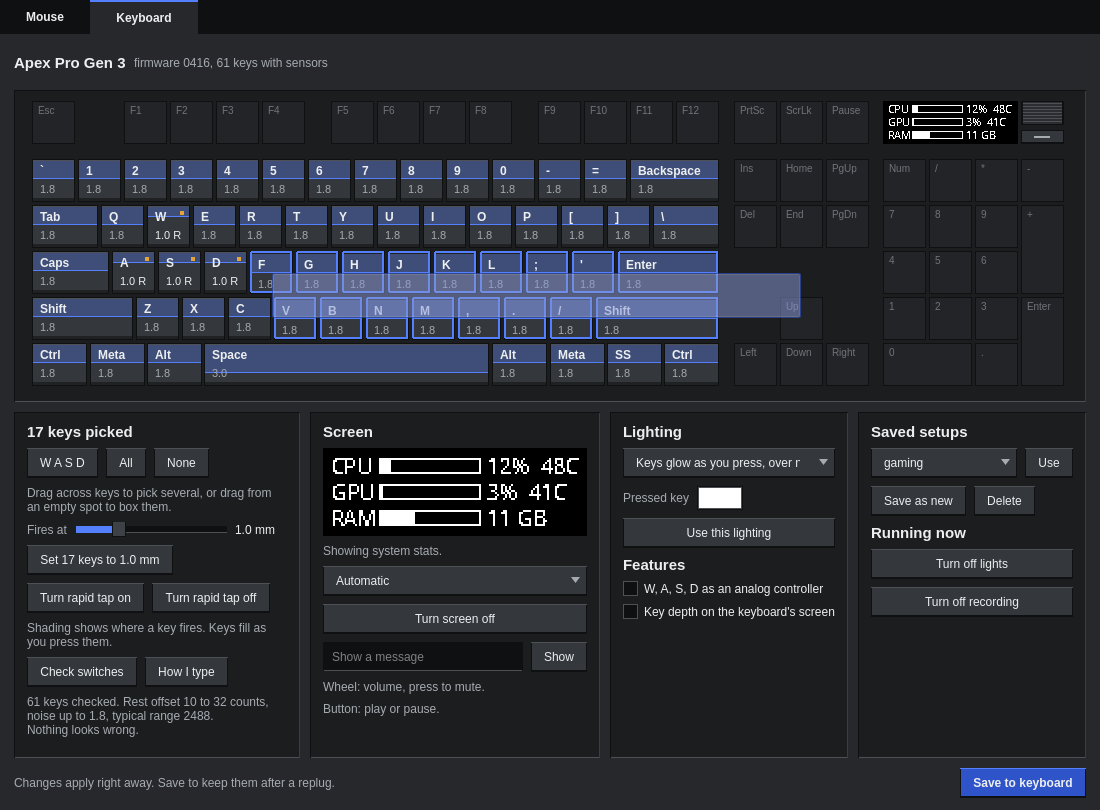
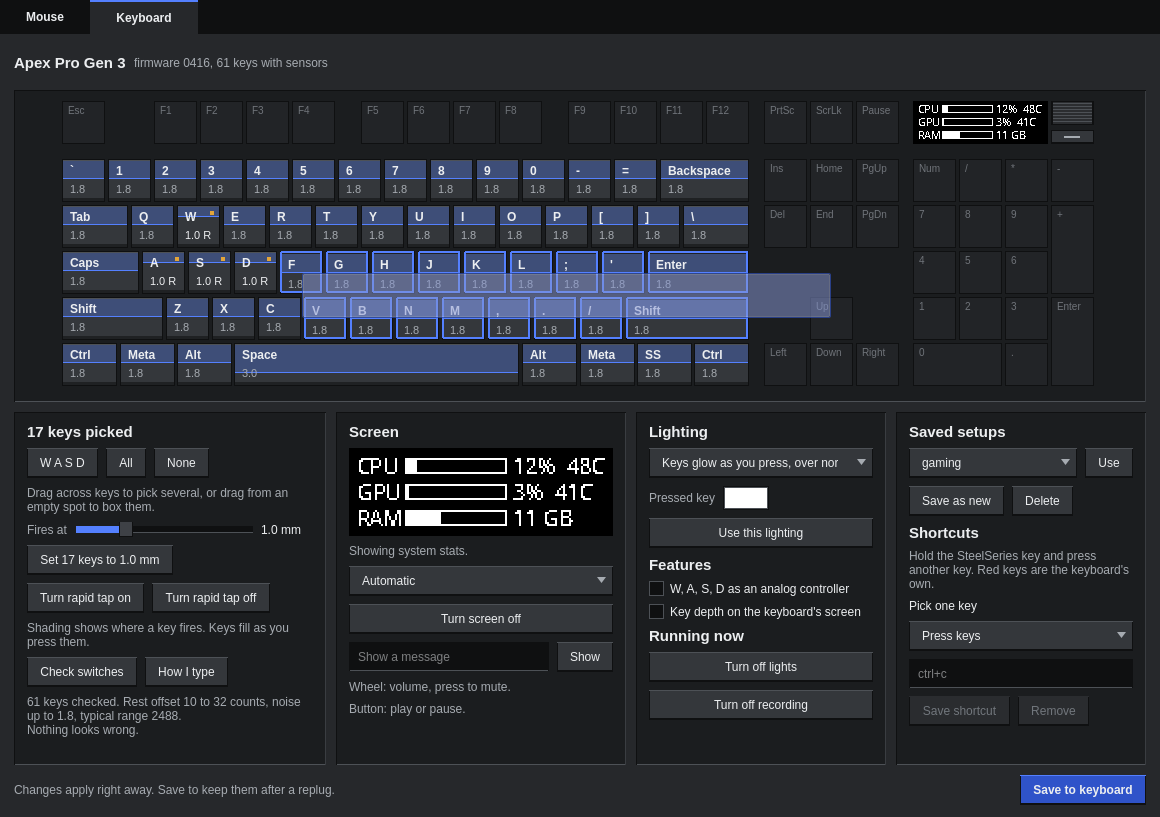
Add a shortcuts panel for the keyboard's SteelSeries key
Pick one key, choose what it does, and save it. Keys the keyboard keeps for itself are refused. Needs an apex-analog with the shortcut command.

diff --git a/aerox/gui.py b/aerox/gui.py
@@ -195,6 +195,11 @@ EFFECTS = [
     ("CPU and memory on the F row", ["lights", "--effect", "stats"], None),
     ("Heatmap of what you press", ["lights", "--effect", "heatmap"], None),
 ]
+# Keys the keyboard keeps for its own settings while its SteelSeries key is held, plus that key itself.
+SHORTCUT_TAKEN = {"Q", "I", "O", "T", "LGUI", "SS"}
+SHORTCUT_KINDS = [("Press keys", "keys", "ctrl+c"), ("Type text", "text", "hello"), ("Run a command", "command", "firefox"),
+                  ("Volume up", "volume+", ""), ("Volume down", "volume-", ""), ("Brightness up", "brightness+", ""),
+                  ("Brightness down", "brightness-", "")]
 FEATURES = [
     ("gamepad", "W, A, S, D as an analog controller", "While this is on, those keys stop typing."),
     ("oled", "Key depth on the keyboard's screen", "Shows how far each key is pressed on the small display."),
@@ -315,7 +320,30 @@ class KeyboardDevice:
         info = json.loads(self.run("info", "--json"))
         status = self.run("status")
         presets = [line.strip() for line in self.run("preset", "list").splitlines() if line.strip()]
-        return {"info": info, "jobs": parse_jobs(status), "presets": presets}
+        return {"info": info, "jobs": parse_jobs(status), "presets": presets, "shortcuts": self.shortcuts()}
+
+    def shortcuts(self):
+        try:
+            return json.loads(self.run("shortcut", "list", "--json"))
+        except (KeyboardError, ValueError):  # an apex-analog from before shortcuts
+            return {}
+
+    def add_shortcut(self, key, kind, value):
+        """Keys and text are saved as a macro named after the key, so editing one replaces it."""
+        name = KEY_ARGS.get(key, key)
+        if kind in ("keys", "text"):
+            macro = f"ss-{name.lower()}"
+            step = value.upper() if kind == "keys" else f"text:{value}"
+            self.run("macro", "add", macro, step)
+            output = f"macro:{macro}"
+        elif kind == "command":
+            output = f"run:{value}"
+        else:
+            output = kind
+        return self.run("shortcut", "add", name, output)
+
+    def remove_shortcut(self, key):
+        return self.run("shortcut", "remove", KEY_ARGS.get(key, key))
 
     @staticmethod
     def key_args(names):
@@ -1506,6 +1534,14 @@ class KeyboardPage(QWidget):
         features_title.setObjectName("title")
         panel.layout().addWidget(features_title)
         panel.layout().addLayout(self.feature_list)
+        self.jobs_label = muted("")
+        self.jobs_label.setWordWrap(True)
+        self.turn_off = QVBoxLayout()
+        running = QLabel("Running now")
+        running.setObjectName("title")
+        panel.layout().addWidget(running)
+        panel.layout().addWidget(self.jobs_label)
+        panel.layout().addLayout(self.turn_off)
         panel.layout().addStretch(1)
         return panel
 
@@ -1520,16 +1556,32 @@ class KeyboardPage(QWidget):
         save_as.clicked.connect(self.save_preset)
         delete = QPushButton("Delete")
         delete.clicked.connect(self.delete_preset)
-        self.jobs_label = muted("")
-        self.jobs_label.setWordWrap(True)
-        self.turn_off = QVBoxLayout()
         panel = well(row(self.preset, use), row(save_as, delete, None), title="Saved setups")
-        running = QLabel("Running now")
-        running.setObjectName("title")
-        panel.layout().addWidget(running)
-        panel.layout().addWidget(self.jobs_label)
-        panel.layout().addLayout(self.turn_off)
+        title = QLabel("Shortcuts")
+        title.setObjectName("title")
+        hint = muted("Hold the SteelSeries key and press another key. Red keys are the keyboard's own.")
+        hint.setWordWrap(True)
+        self.shortcut_key = QLabel("Pick one key")
+        self.shortcut_kind = QComboBox()
+        self.shortcut_kind.setSizeAdjustPolicy(QComboBox.AdjustToMinimumContentsLengthWithIcon)
+        self.shortcut_kind.setMinimumContentsLength(10)
+        for label, kind, _ in SHORTCUT_KINDS:
+            self.shortcut_kind.addItem(label, kind)
+        self.shortcut_kind.currentIndexChanged.connect(self.shortcut_kind_picked)
+        self.shortcut_value = QLineEdit()
+        self.shortcut_save = QPushButton("Save shortcut")
+        self.shortcut_save.clicked.connect(self.save_shortcut)
+        self.shortcut_remove = QPushButton("Remove")
+        self.shortcut_remove.clicked.connect(self.remove_shortcut)
+        self.shortcut_list = muted("")
+        self.shortcut_list.setWordWrap(True)
+        for widget in (title, hint, self.shortcut_key, self.shortcut_kind, self.shortcut_value):
+            panel.layout().addWidget(widget)
+        panel.layout().addLayout(row(self.shortcut_save, self.shortcut_remove, None))
+        panel.layout().addWidget(self.shortcut_list)
         panel.layout().addStretch(1)
+        self.shortcuts = {}
+        self.shortcut_kind_picked()
         return panel
 
     # Loading
@@ -1555,8 +1607,9 @@ class KeyboardPage(QWidget):
                 mm = self.key_depth(key)
                 rapid = key["mode"] != 0
                 cap.fires_at = key["press"]
-                cap.set_detail(f"{mm:.1f}" + (" R" if rapid else ""), fill=key["press"] / TRAVEL_MM, marked=rapid)
-                cap.setToolTip(f"Fires at {mm:.1f} mm" + (", rapid tap on" if rapid else ""))
+                shortcut = data.get("shortcuts", {}).get(name)
+                cap.set_detail(f"{mm:.1f}" + (" R" if rapid else ""), fill=key["press"] / TRAVEL_MM, marked=rapid or bool(shortcut))
+                cap.setToolTip(f"Fires at {mm:.1f} mm" + (", rapid tap on" if rapid else "") + (f". With the SteelSeries key: {shortcut}" if shortcut else ""))
             else:
                 cap.inert = True
                 cap.setEnabled(False)
@@ -1567,6 +1620,8 @@ class KeyboardPage(QWidget):
         if current in data["presets"]:
             self.preset.setCurrentText(current)
         self.show_jobs(data["jobs"])
+        self.shortcuts = data.get("shortcuts", {})
+        self.shortcut_list.setText("\n".join(f"{KEY_LABELS.get(k, k)}: {v}" for k, v in sorted(self.shortcuts.items())))
         self.loading = False
         self.selection_changed()
         if not self.status.text():
@@ -1712,6 +1767,45 @@ class KeyboardPage(QWidget):
         if len(chosen) == 1 and chosen[0] in self.settings:
             self.depth.setValue(DEPTHS.index(self.key_depth(self.settings[chosen[0]])))
         self.show_set_label()
+        self.show_shortcut_key()
+
+    def shortcut_target(self):
+        """The one picked key a shortcut can go on, or None."""
+        chosen = self.selected_keys()
+        return chosen[0] if len(chosen) == 1 and chosen[0] not in SHORTCUT_TAKEN else None
+
+    def show_shortcut_key(self):
+        if not hasattr(self, "shortcut_save"):
+            return
+        chosen, target = self.selected_keys(), self.shortcut_target()
+        if target:
+            self.shortcut_key.setText(f"SteelSeries + {KEY_LABELS.get(target, target)}")
+        elif len(chosen) == 1:
+            self.shortcut_key.setText(f"{KEY_LABELS.get(chosen[0], chosen[0])} is the keyboard's own")
+        else:
+            self.shortcut_key.setText("Pick one key")
+        self.shortcut_save.setEnabled(bool(target))
+        self.shortcut_remove.setEnabled(bool(target) and target in self.shortcuts)
+
+    def shortcut_kind_picked(self, *_):
+        _, kind, placeholder = SHORTCUT_KINDS[self.shortcut_kind.currentIndex()]
+        self.shortcut_value.setPlaceholderText(placeholder)
+        self.shortcut_value.setVisible(bool(placeholder))
+
+    def save_shortcut(self):
+        key, kind, value = self.shortcut_target(), self.shortcut_kind.currentData(), self.shortcut_value.text().strip()
+        if not key:
+            return
+        if kind in ("keys", "text", "command") and not value:
+            self.status.say("Say what the shortcut should do first.", "bad")
+            return
+        self.shortcut_value.clear()
+        self.apply(lambda: self.device.add_shortcut(key, kind, value), f"Saved the shortcut on {KEY_LABELS.get(key, key)}.")
+
+    def remove_shortcut(self):
+        key = self.shortcut_target()
+        if key:
+            self.apply(lambda: self.device.remove_shortcut(key), f"Removed the shortcut on {KEY_LABELS.get(key, key)}.")
 
     def depth_shown(self, *_):
         self.depth_label.setText(f"{DEPTHS[self.depth.value()]:.1f} mm")

diff --git a/aerox/test_gui.py b/aerox/test_gui.py
@@ -447,6 +447,82 @@ class KeyboardPageTest(unittest.TestCase):
         self.assertTrue(self.page.content.isEnabled())
 
 
+class ShortcutPanel(unittest.TestCase):
+    def setUp(self):
+        self.device = FakeKeyboard()
+        self.page = gui.KeyboardPage(self.device, Inline(), yes)
+        self.page.refresh()
+
+    def kind(self, value):
+        self.page.shortcut_kind.setCurrentIndex(self.page.shortcut_kind.findData(value))
+
+    def test_needs_exactly_one_key(self):
+        self.assertFalse(self.page.shortcut_save.isEnabled())
+        self.page.pick(["W", "A"])
+        self.assertFalse(self.page.shortcut_save.isEnabled())
+        self.page.pick(["J"])
+        self.assertTrue(self.page.shortcut_save.isEnabled())
+        self.assertEqual(self.page.shortcut_key.text(), "SteelSeries + J")
+
+    def test_the_keyboards_own_keys_are_refused(self):
+        for key in ("Q", "I", "O", "T", "LGUI", "SS"):
+            self.page.pick([key])
+            self.assertFalse(self.page.shortcut_save.isEnabled(), key)
+            self.assertIn("keyboard's own", self.page.shortcut_key.text())
+
+    def test_save_keys(self):
+        self.page.pick(["J"])
+        self.kind("keys")
+        self.page.shortcut_value.setText("ctrl+c")
+        self.page.shortcut_save.click()
+        self.assertEqual(self.device.calls, [("add_shortcut", "J", "keys", "ctrl+c")])
+
+    def test_a_volume_shortcut_needs_nothing_typed(self):
+        self.page.pick(["J"])
+        self.kind("volume+")
+        self.assertTrue(self.page.shortcut_value.isHidden())
+        self.page.shortcut_save.click()
+        self.assertEqual(self.device.calls, [("add_shortcut", "J", "volume+", "")])
+
+    def test_empty_is_a_message_not_a_shortcut(self):
+        self.page.pick(["J"])
+        self.kind("command")
+        self.page.shortcut_save.click()
+        self.assertEqual(self.device.calls, [])
+        self.assertIn("Say what", self.page.status.text())
+
+    def test_existing_shortcuts_show_and_can_be_removed(self):
+        self.device.data["shortcuts"] = {"J": "volume+", ",": "macro:ss-comma"}
+        self.page.refresh()
+        self.assertTrue(self.page.caps["J"].marked)
+        self.assertIn("volume+", self.page.caps["J"].toolTip())
+        self.assertIn("J: volume+", self.page.shortcut_list.text())
+        self.page.pick(["K"])
+        self.assertFalse(self.page.shortcut_remove.isEnabled())
+        self.page.pick(["J"])
+        self.page.shortcut_remove.click()
+        self.assertEqual(self.device.calls, [("remove_shortcut", "J")])
+
+    def test_commands_it_sends(self):
+        d = tempfile.TemporaryDirectory()
+        self.addCleanup(d.cleanup)
+        path = os.path.join(d.name, "fake")
+        with open(path, "w") as f:
+            f.write('#!/bin/sh\nprintf "%s|" "$@" >> "$0.log"\nprintf "\\n" >> "$0.log"\n')
+        os.chmod(path, 0o755)
+        device = gui.KeyboardDevice(path)
+        device.add_shortcut(",", "keys", "ctrl+c")
+        device.add_shortcut("J", "text", "hi there")
+        device.add_shortcut("K", "command", "firefox --new-window")
+        device.add_shortcut("L", "volume+", "")
+        device.remove_shortcut(",")
+        self.assertEqual(open(path + ".log").read().splitlines(), [
+            "macro|add|ss-comma|CTRL+C|", "shortcut|add|COMMA|macro:ss-comma|",
+            "macro|add|ss-j|text:hi there|", "shortcut|add|J|macro:ss-j|",
+            "shortcut|add|K|run:firefox --new-window|", "shortcut|add|L|volume+|", "shortcut|remove|COMMA|",
+        ])
+
+
 class DragSelect(unittest.TestCase):
     def setUp(self):
         self.device = FakeKeyboard()

diff --git a/aerox/README.md b/aerox/README.md
@@ -28,6 +28,8 @@ While the keyboard page is showing, each key fills as you press it and shows its
 
 Drag across keys to pick several at once, or drag from an empty spot to box them.
 
+Shortcuts fire when you hold the SteelSeries key and press another key. Pick one key, choose what it does, and save it. The keys the keyboard keeps for itself light up red while you hold it, and can't be used.
+
 ![Dragging a box across the keyboard to pick a group of keys](docs/keyboard-drag.png)
 
 The keyboard page also mirrors what's on the keyboard's screen, and can pin what it shows, turn it off, or send it a message, through [apex-oled](https://github.com/milescoviello/apex-oled). The screen needs an `apex-oled` with the `frame` command.
